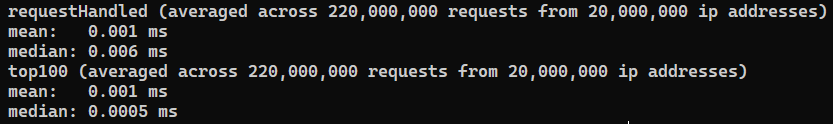
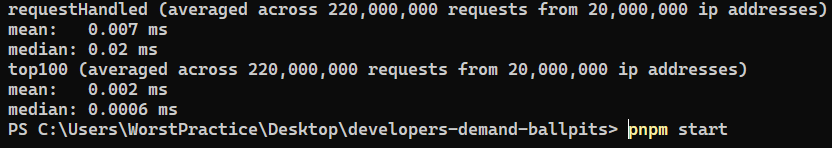
get me the president of benchmarking

Changed region(s): [[0.0, 0.0, 1.0, 0.6532], [0.0, 0.8226, 0.875, 0.9435], [0.0, 0.6774, 0.2188, 0.7984]]

diff --git a/README.md b/README.md
@@ -46,15 +46,27 @@ The deadline for the top100 function was being able to return a correct answer a
 
 I ran it once for every request that trickled in, just to make things as hard as possible.
 
-I also made each IP send multiple requests, 10 in the run pictured below:
+I also made each IP send multiple requests, 10 in the benchmarks discussed below.
 
 ![benchmark results](./benchmark.png)
 
-As my results show, on my aging rig, the top100 function took 20 microseconds (mean) and 6 microseconds (median) accross 220 million requests from 20 million ips.
+~~`requestHandled` took 70 microseconds (mean) and a whopping 200 microseconds (median) to run.~~
 
-requestHandled, meanwhile, did a bit worse, taking all of 70 microseconds (mean) and 200 microseconds (median) to complete.
+~~`top100` did better, taking 20 microseconds (mean) and 6 microseconds (median) to run.~~
 
-The good news are, even 200 microseconds is well within the range of 300 milliseconds.
+~~The good news are, even 200 microseconds is well within the range of 300 milliseconds.~~
+
+Thanks to your steely wise and eagle-eyed engineering department, an unexploited branch in the code was identified, in which sorting the top 100 list proved unnecessary.
+
+This especially matters since this particular branch is very hot — in other words, it ends up being taken incredibly often.
+
+With this discovery pumped dry for all its performance savings, the new numbers are as follows:
+
+![benchmark results](./improved_benchmark.png)
+
+`requestHandled` sped up by 700% (mean) and ~350% (median).
+
+`top100` sped up by 200% (mean) and 20% (median).
 
 ## Is the code that runs intended as part of your submission?
 
